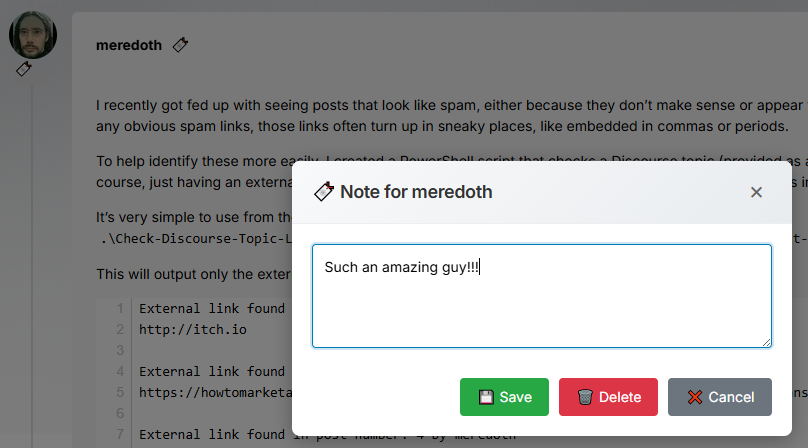
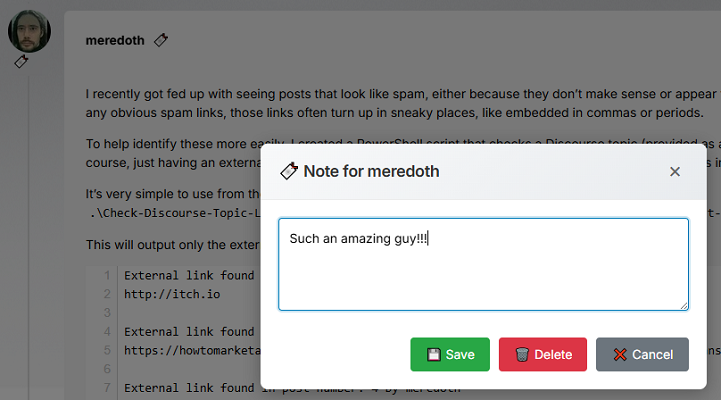
Fixed some times having duplicated note signs on usernames due to asynchronous storage call Fixed height of notes in initial text popup Resized one screenshot

diff --git a/Discourse_Notes/content.js b/Discourse_Notes/content.js
@@ -175,16 +175,23 @@ function init()
     });
 }
 
-function addNoteIcons()
-{
+function addNoteIcons() {
     const userElements = document.querySelectorAll('[data-user-card]');
     userElements.forEach(element => {
-        if (element.querySelector('.discourse-note-icon')) return;
+        // Check for existing icon OR processing marker
+        if (element.querySelector('.discourse-note-icon') || element.hasAttribute('data-processing-note')) {
+            return;
+        }
 
         const username = element.getAttribute('data-user-card');
-        if (username)
-        {
+        if (username) {
+            // Mark as being processed
+            element.setAttribute('data-processing-note', 'true');
+
             chrome.storage.local.get([`note_${username}`], (result) => {
+                // Remove processing marker
+                element.removeAttribute('data-processing-note');
+
                 const hasNote = !!result[`note_${username}`];
                 const icon = createNoteIcon(username, hasNote);
                 element.appendChild(icon);

diff --git a/Discourse_Notes/popup.html b/Discourse_Notes/popup.html
@@ -117,7 +117,7 @@
             white-space: pre-wrap;
             word-break: break-word;
             line-height: 1.2;
-            max-height: 48px;
+            max-height: 100px;
             overflow-y: auto;
             margin: 0;
             padding: 0;
@@ -125,7 +125,7 @@
         }
 
         .note-text.collapsed {
-            max-height: 24px;
+            max-height: 34px;
             overflow: hidden;
             position: relative;
         }
